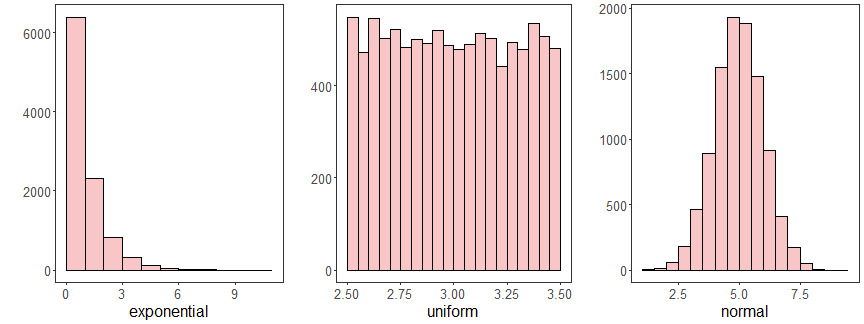
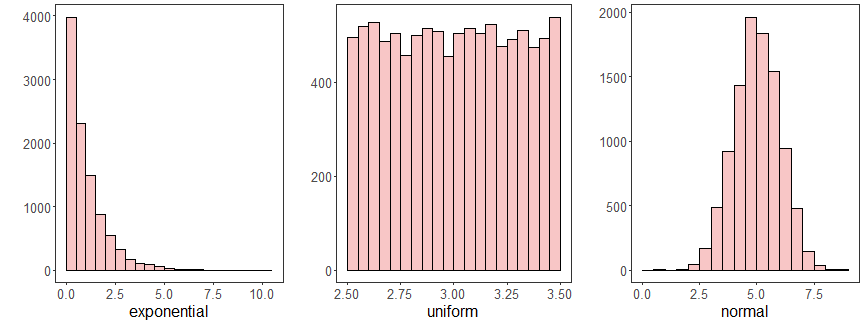
update

diff --git a/examples/3-DataVisualization.md b/examples/3-DataVisualization.md
@@ -170,12 +170,12 @@ head(example)
 
 ```
 ##   exponential  uniform   normal
-## 1  0.48921598 3.305564 6.034303
-## 2  0.88211490 2.703662 5.374254
-## 3  0.53947042 2.987946 4.179084
-## 4  1.12998884 3.207349 4.256873
-## 5  0.03307218 2.613569 4.513009
-## 6  0.47520133 3.237374 3.535398
+## 1 0.852000473 3.139398 4.580729
+## 2 1.101020432 2.878604 4.117222
+## 3 0.076768131 3.094234 4.573972
+## 4 1.347304907 2.545076 3.462569
+## 5 0.005116942 3.265322 3.510009
+## 6 0.154305027 2.805553 5.396420
 ```
 
 
@@ -225,42 +225,45 @@ grid.arrange(grfe, grfu, grfn, ncol=3)
 
 ![plot of chunk unnamed-chunk-16](fig/3-DataVisualization/unnamed-chunk-16-1.png)
 
-``` r
 #### Density plot
-```
+
+
 
 ``` r
-{
 library(dplyr)
 data <- example |> select(normal)
 #head(data)
 grf <- plot_density(data, label_x = "normal", color=colors[1]) + font
-plot(grf) 
-}
 ```
 
 ```
 ## Using  as id variables
+```
+
+``` r
+plot(grf) 
 ```
 
 ![plot of chunk unnamed-chunk-17](fig/3-DataVisualization/unnamed-chunk-17-1.png)
 
-``` r
 #### Box plot
-```
+
+
 
 ``` r
-{
 library(dplyr)
 data <- example |> select(normal)
 #head(data)
 grf <- plot_boxplot(data, label_x = "normal", color="white") + font
-plot(grf) 
-}
 ```
 
 ```
 ## Using  as id variables
 ```
 
+``` r
+plot(grf) 
+```
+
 ![plot of chunk unnamed-chunk-18](fig/3-DataVisualization/unnamed-chunk-18-1.png)
+
